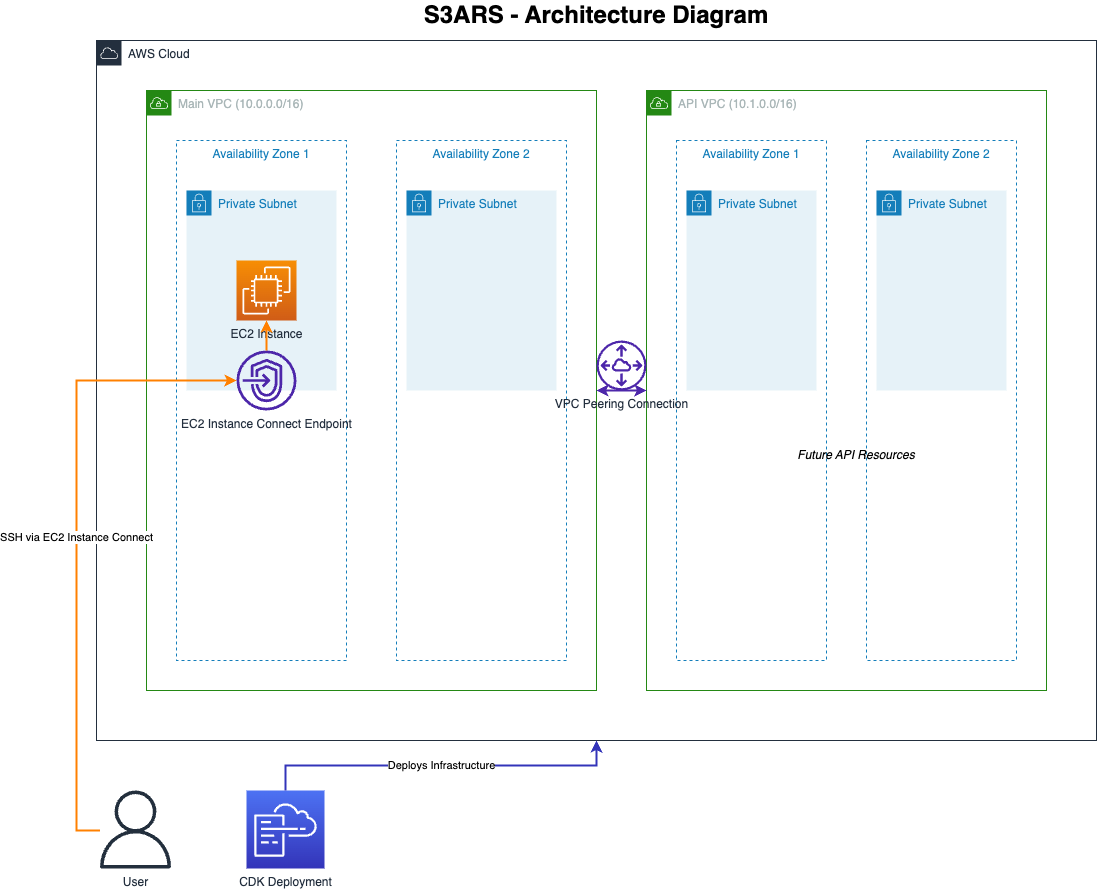
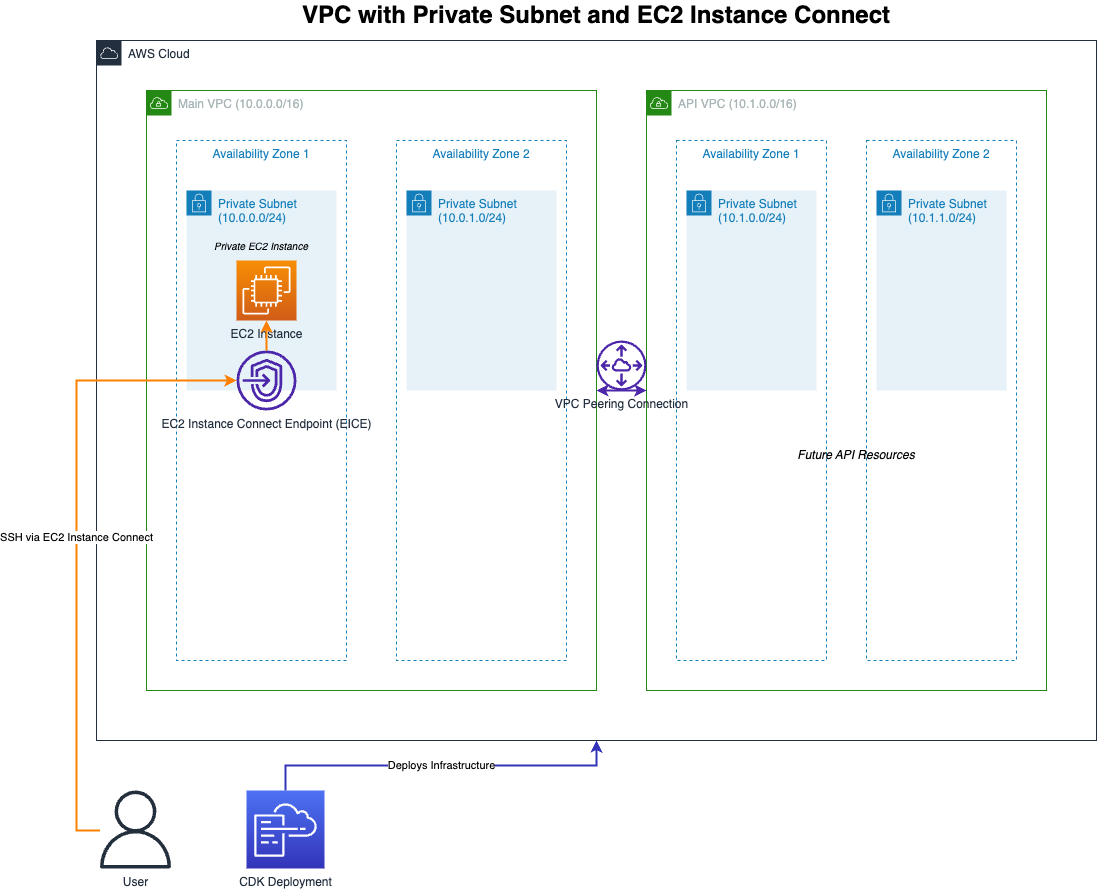
update: arch

diff --git a/AmazonQ.md b/AmazonQ.md
@@ -1,0 +1,33 @@
+# アーキテクチャ図の修正について
+
+このプロジェクトのアーキテクチャ図は以下の構成を反映しています：
+
+1. プライベートサブネットのみを持つ2つのVPC（各VPCに2つのAZ）
+   - メインVPC：EC2インスタンスを含む
+   - API VPC：将来のAPIリソース用
+
+2. メインVPCとAPI VPC間のVPCピアリング接続
+
+3. メインVPC内のプライベートサブネットにEC2インスタンス
+
+4. EC2インスタンスコネクトエンドポイント（インスタンスへの接続用）
+
+## アーキテクチャ図の修正方法
+
+1. `architecture.drawio` ファイルを使用して修正
+   - [draw.io](https://app.diagrams.net/)で開く
+   - または、VS Codeの[Draw.io Integration](https://marketplace.visualstudio.com/items?itemName=hediet.vscode-drawio)拡張機能を使用
+
+2. 修正後、PNGとして書き出し
+   ```bash
+   # draw.ioから直接エクスポート
+   # または、以下のコマンドでdrawio CLIを使用（インストールされている場合）
+   drawio -x -f png -o architecture.png architecture.drawio
+   ```
+
+## 現在のアーキテクチャ図の特徴
+
+- プライベートサブネットのみのVPC構成
+- EC2インスタンスコネクトエンドポイントによる安全な接続
+- VPCピアリングによる2つのVPC間の通信
+- インターネットゲートウェイやNATゲートウェイを使用しないコスト効率の良い設計
